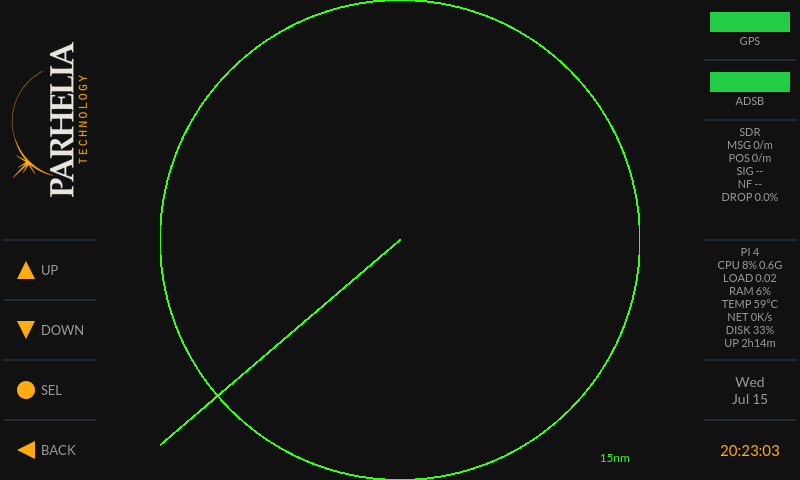
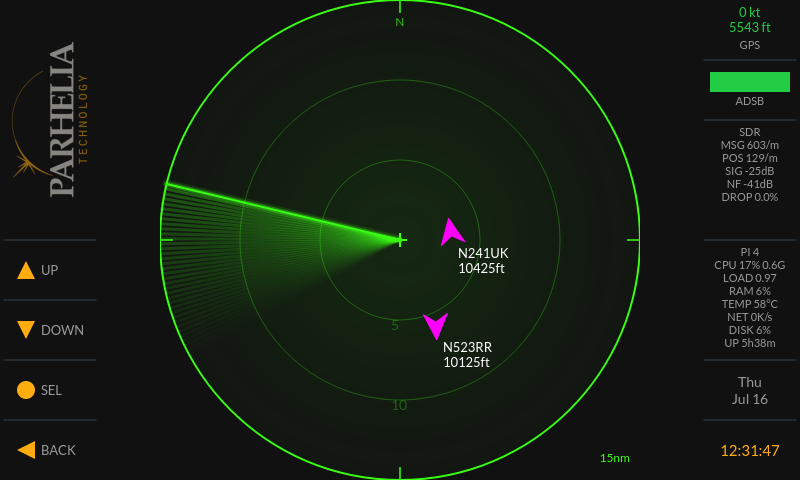
SDR self-recovery defenses, live-traffic gallery, doc refresh
Defenses (both proven live twice within an hour of deployment — the
marginal-power dongle wedges its R820T PLL on roughly every reopen):
- aeroscan-sdr-watchdog service (preset-enabled): polls dump1090's
  stats.json every 30 s; active-but-zero-samples for ~1 min restarts
  dump1090, ~2 min escalates to USB unbind/rebind, then throttled
  retries. Ignores intentional stops (tuner/rtl_tcp handoffs).
- Instrument rail: SDR block turns red "STALLED" after ~40 s of
  zero-sample reads, so a deaf decoder is visible instead of
  masquerading as an empty sky.

Docs: README documents the USB-power failure signature (PLL not locked
-> silent deafness), the built-in recovery, and the powered-hub advice;
phosphor radar and GPS-readout descriptions updated; reception-tips
records the verified RF win (-30 jammed to -41 dBFS, 1800+ msg/min
after remoting the receiver). Gallery refreshed with live-traffic
captures: phosphor radar scope with aircraft, map scope with six
airliners, main menu with real decode stats. On-device release notes
(/etc/release_notes) and RELEASE_NOTES.md updated to match.

diff --git a/aeroscan-gui/winglet-ui/widget/touchbuttonoverlay.cpp b/aeroscan-gui/winglet-ui/widget/touchbuttonoverlay.cpp
@@ -151,6 +151,12 @@ void TouchButtonOverlay::pollStats()
             const double sd = loc.value(QStringLiteral("samples_dropped")).toDouble();
             m_sdrDropPct = sp > 0 ? (sd / sp) * 100.0 : 0.0;
             m_sdrValid = true;
+            // Deaf-decoder alarm: dump1090 running but processing no
+            // samples (wedged tuner PLL / USB power sag). ~40 s of
+            // consecutive zero reads before declaring, to ride out
+            // startup and window resets.
+            m_sdrZeroPolls = (sp <= 0) ? m_sdrZeroPolls + 1 : 0;
+            m_sdrStalled = (m_sdrZeroPolls >= 20);
         }
     }
 
@@ -395,6 +401,8 @@ void TouchButtonOverlay::paintRight(QPainter &p)
             QStringList lines;
             if (i == 2) {
                 lines << QStringLiteral("SDR");
+                if (m_sdrStalled)
+                    lines << QStringLiteral("STALLED");
                 if (m_sdrValid) {
                     lines << QStringLiteral("MSG %1/m").arg(qRound(m_sdrMsgPerMin))
                           << QStringLiteral("POS %1/m").arg(qRound(m_sdrPosPerMin))
@@ -431,7 +439,8 @@ void TouchButtonOverlay::paintRight(QPainter &p)
                 if (!m_uptime.isEmpty())
                     lines << QStringLiteral("UP %1").arg(m_uptime);
             }
-            p.setPen(C_MUTED);
+            p.setPen(i == 2 && m_sdrStalled ? QColor(0xdd, 0x22, 0x22)
+                                             : C_MUTED);
             p.drawText(blockRect, Qt::AlignHCenter | Qt::AlignTop,
                        lines.join(QStringLiteral("\n")));
             continue;

diff --git a/aeroscan-gui/winglet-ui/widget/touchbuttonoverlay.h b/aeroscan-gui/winglet-ui/widget/touchbuttonoverlay.h
@@ -51,6 +51,8 @@ private:
     // Monitored stats for the right column (SDR: slots 2-3, Pi: slots 4-5)
     void pollStats();
     bool   m_sdrValid = false;
+    bool   m_sdrStalled = false;
+    int    m_sdrZeroPolls = 0;
     double m_sdrMsgPerMin = -1, m_sdrPosPerMin = -1;
     double m_sdrSignal = 0, m_sdrNoise = 0, m_sdrDropPct = 0;
     bool   m_sdrSignalValid = false, m_sdrNoiseValid = false;

diff --git a/README.md b/README.md
@@ -23,8 +23,9 @@ hardware.
   <img src="docs/radio-tuner.png" width="49%" alt="Radio Tuner — airband on 121.500 Guard with presets and squelch">
   <img src="docs/settings-menu.png" width="49%" alt="Settings menu">
   <br>
-  <em>Radar Scope, full-width Map Scope (OpenAIP airspace with live decoder stats on the rail),
-  Radio Tuner on 121.500 Guard, and Settings — captured on-device (F12 screenshot hotkey)</em>
+  <em>Radar Scope, full-width Map Scope with live traffic (DAL/UPS/SWA arrivals
+  over the OpenAIP airspace chart), Radio Tuner on 121.500 Guard, and Settings —
+  captured on-device (F12 screenshot hotkey)</em>
 </p>
 
 ## Features
@@ -36,9 +37,12 @@ main display**, and a **100 px instrument rail** on the right. Everything is
 driven from the four touch zones or an optional paired Bluetooth/USB
 keyboard. From the main menu:
 
-- **Radar Scope** — PPI radar sweep (smooth 4-second revolution) plotting live
-  ADS-B aircraft around your GPS position with callsign and altitude labels.
-  Tracks that stop updating dim after 30 seconds and age out at 90.
+- **Radar Scope** — classic phosphor P-scope: a glowing sweep with a fading
+  decay trail (4-second revolution, fixed 240 px radius), CRT tube-glow,
+  range rings at 1/3, 2/3, and full range, cardinal ticks with an N marker,
+  and an ownship cross — plotting live ADS-B aircraft with callsign and
+  altitude labels. Tracks that stop updating dim after 30 seconds and age
+  out at 90.
 - **Map Scope** — the same traffic overlaid on aviation chart tiles (airspace,
   airports, NAVAIDs), using the full 600 px width; chart areas missing from
   the tile cache render black instead of failing the view.
@@ -58,7 +62,9 @@ keyboard. From the main menu:
 The right column is a live instrument rail, refreshed every 2 seconds
 (top to bottom):
 
-- **GPS bar** — green: position fix; amber: no lock.
+- **GPS readout** — ground speed (knots) and MSL altitude (feet) from the
+  GPS, drawn in the fix-status color: green with a fix, amber dashes
+  without.
 - **ADS-B bar** — amber: connected to the dump1090 feed; green: aircraft
   heard in the last 90 seconds. After a single-dongle tuner session the feed
   reconnects automatically in ~8 seconds.
@@ -184,6 +190,17 @@ the SDR dongle sits next to it. For greatly improved reception:
 - Judge each change with the instrument rail's SDR stats: a noise floor
   (`NF`) around **−42 dBFS** means a quiet site, around **−30 dBFS** means
   interference is winning; rising `MSG` and `POS` rates are the payoff.
+  (Verified in practice: remoting the receiver away from the panel took
+  this site from a jammed −30 dBFS floor with zero decodes to −41 dBFS
+  with 1800+ messages and 150+ positions per minute.)
+- **Mind USB power on the extension**: a long or thin cable drops voltage,
+  and an undervolted dongle can fail its tuner PLL (`[R82XX] PLL not
+  locked!` in the dump1090 journal) — the decoder then runs while
+  processing zero samples, i.e. an empty sky under heavy traffic. The
+  image detects this (red **STALLED** in the rail's SDR block) and
+  self-recovers via `aeroscan-sdr-watchdog` (dump1090 restart, then USB
+  rebind), but if it recurs the durable fix is a shorter/thicker cable or
+  a small powered hub at the receiver end.
 
 ## Display selection (Pi 4)
 
@@ -293,6 +310,12 @@ shell instead, run `systemctl stop aeroscan-gui` over SSH or the serial
 console (a getty also remains on tty1 beneath the GUI). `aeroscan-setup`
 configures WiFi, display, and hostname from the shell if you prefer that to
 the in-app Settings.
+
+The image is hardened for indefinite unattended operation: the GUI respawns
+on any crash (power-menu exits excepted — Poweroff/Reboot/Exit do what they
+say), a 15-second hardware watchdog reboots the box on kernel hangs, the
+journal is capped at 64 MB, screenshots self-prune, and the first boot
+expands the filesystem to the full card.
 
 ## Repository layout
 

diff --git a/RELEASE_NOTES.md b/RELEASE_NOTES.md
@@ -1,5 +1,16 @@
 # AeroScan Release Notes — July 2026 development snapshot
 
+> **Update (2026-07-16, post-v0.2b):** the RF mitigation worked — remoting
+> the SDR receiver on a USB extension away from the display panel took the
+> site from a jammed −30 dBFS floor to −41 dBFS with 1800+ messages and
+> 150+ positions/minute; scopes now show dense live traffic. Since v0.2b:
+> phosphor P-scope radar rendering with fixed-radius sweep, GPS
+> velocity/altitude readout (plus a GPS-only-receiver altitude parsing
+> fix), Remote SDR server (rtl_tcp) controlled from Settings, map/radar
+> aircraft render parity, GUI autostart, and appliance hardening
+> (crash respawn, hardware watchdog, functioning power menu, bounded
+> logs/screenshots/memory, filesystem expansion fix).
+
 ## Developer hardware configuration
 
 | Component | In use |